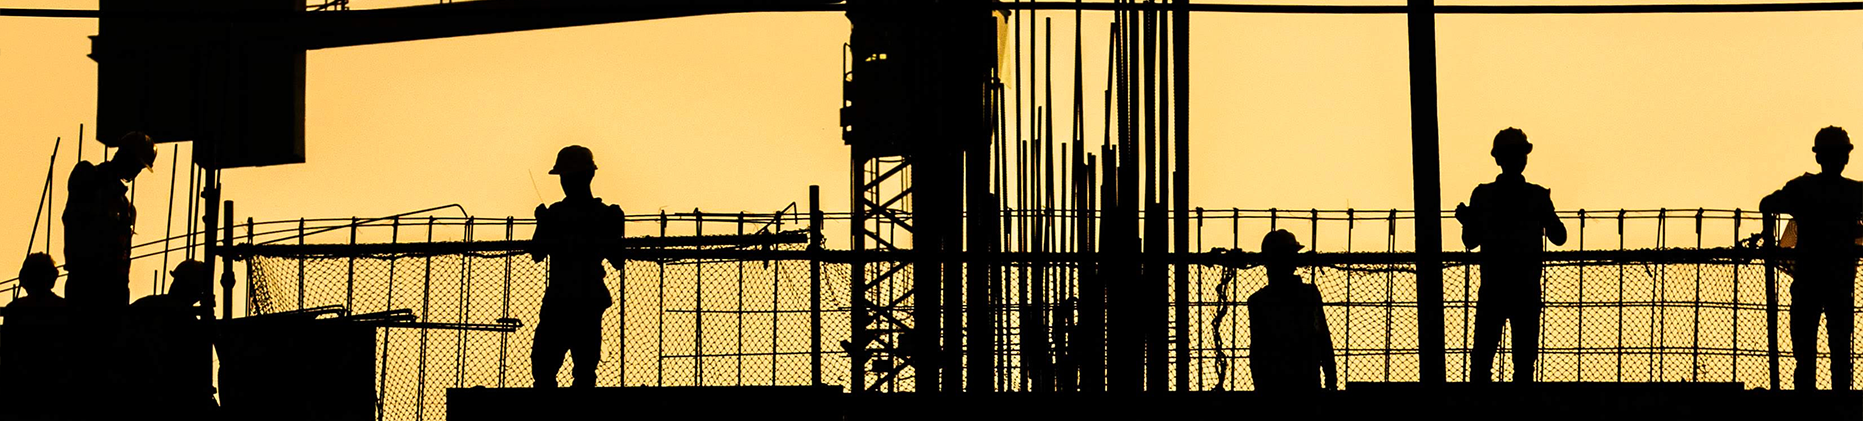
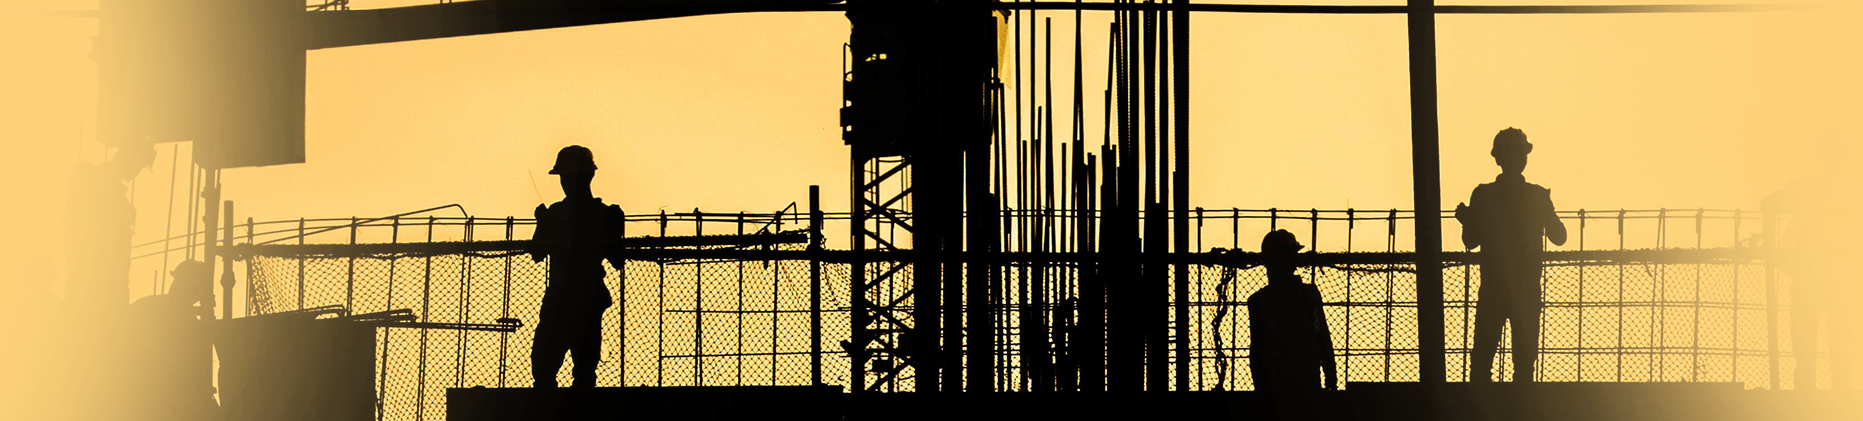
ajustes estilo

Changed region(s): [[0.0, 0.0, 0.2802, 1.0], [0.7472, 0.0, 1.0, 1.0]]

diff --git a/css/estilo.css b/css/estilo.css
@@ -84,7 +84,7 @@ p{
 .introducao{
 	height:375px;
 	width:100%;
-	background:url(../imagens/acomax_bg.png) no-repeat left top #2a2a2a;
+	background:url(../imagens/acomax_bg.png) no-repeat left top #fed179;
 	background-position: 50% ; 
 	z-index: -1000;
 	padding-top: 30px;
